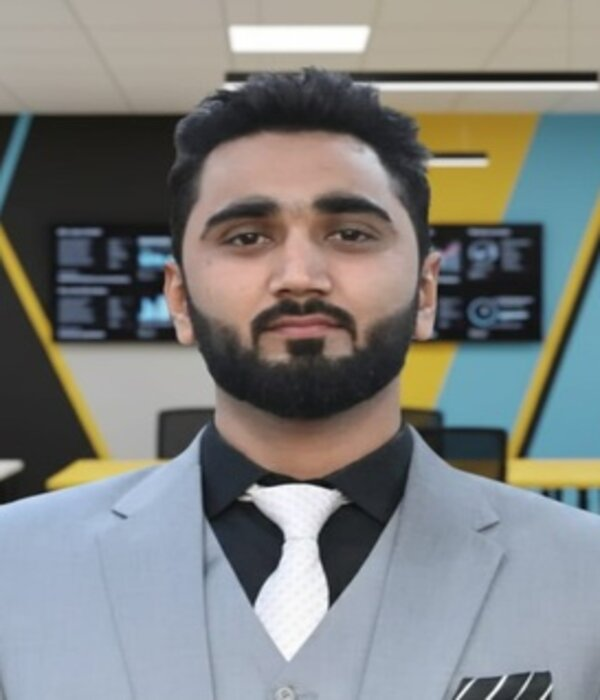
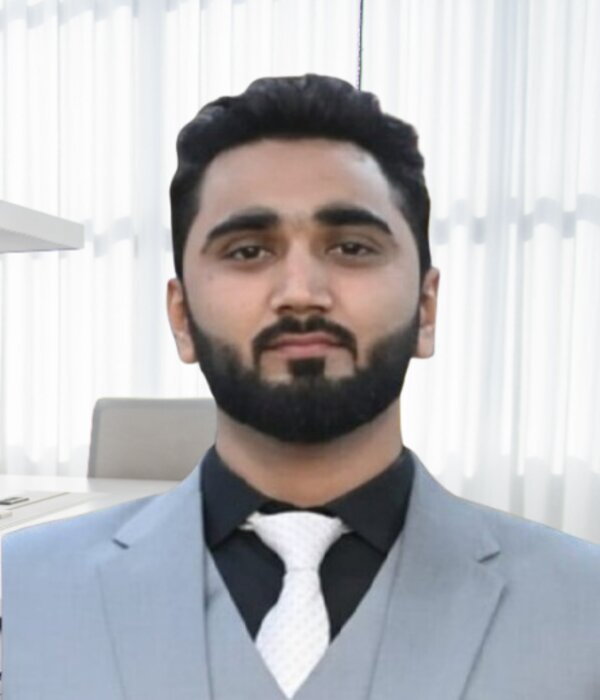
update

diff --git a/index.html b/index.html
@@ -311,14 +311,14 @@
                         <div class="team-thumb">
                             <img src="assets/img/team-2.jpg" alt="img">
                             <ul class="team-social">
-                                <li><a href="https://www.facebook.com/profile.php?id=61592448639614"><i class="fa-brands fa-facebook"></i></a></li>
+                               <li><a href="https://www.facebook.com/profile.php?id=61592448639614" target="_blank" rel="noopener noreferrer"><i class="fa-brands fa-facebook"></i></a></li>
                                 <li><a href="#"><i class="fa-brands fa-x-twitter"></i></a></li>
-                                <li><a href="#"><i class="fa-brands fa-instagram"></i></a></li>
+                                <li><a href="https://www.instagram.com/revoxenassociates/" target="_blank" rel="noopener noreferrer"><i class="fa-brands fa-instagram"></i></a></li>
                                 <li><a href="#"><i class="fa-brands fa-youtube"></i></a></li>
                             </ul>
                         </div>
                         <div class="team-content">
-                            <h3>Olivia Hughes <span>Electrical Worker</span></h3>
+                            <h3>Afrasiab <span>CEO</span></h3>
                         </div>
                     </div>
                 </div>
@@ -327,9 +327,9 @@
                         <div class="team-thumb">
                             <img src="assets/img/team-3.jpg" alt="img">
                             <ul class="team-social">
-                                <li><a href="https://www.facebook.com/profile.php?id=61592448639614"><i class="fa-brands fa-facebook"></i></a></li>
+                                <li><a href="https://www.facebook.com/profile.php?id=61592448639614" target="_blank" rel="noopener noreferrer"><i class="fa-brands fa-facebook"></i></a></li>
                                 <li><a href="#"><i class="fa-brands fa-x-twitter"></i></a></li>
-                                <li><a href="#"><i class="fa-brands fa-instagram"></i></a></li>
+                                <li><a href="https://www.instagram.com/revoxenassociates/"><i class="fa-brands fa-instagram"></i></a></li>
                                 <li><a href="#"><i class="fa-brands fa-youtube"></i></a></li>
                             </ul>
                         </div>

diff --git a/team.html b/team.html
@@ -149,7 +149,7 @@
                             </ul>
                         </div>
                         <div class="team-content">
-                            <h3>Olivia Hughes <span>Electrical work er</span></h3>
+                            <h3>Afrasiab <span>CEO</span></h3>
                         </div>
                     </div>
                 </div>
@@ -160,7 +160,7 @@
                             <ul class="team-social">
                                 <li><a href="#"><i class="fa-brands fa-facebook"></i></a></li>
                                 <li><a href="#"><i class="fa-brands fa-x-twitter"></i></a></li>
-                                <li><a href="#"><i class="fa-brands fa-instagram"></i></a></li>
+                                <li><a href="https://www.instagram.com/revoxenassociates/"><i class="fa-brands fa-instagram"></i></a></li>
                                 <li><a href="#"><i class="fa-brands fa-youtube"></i></a></li>
                             </ul>
                         </div>
